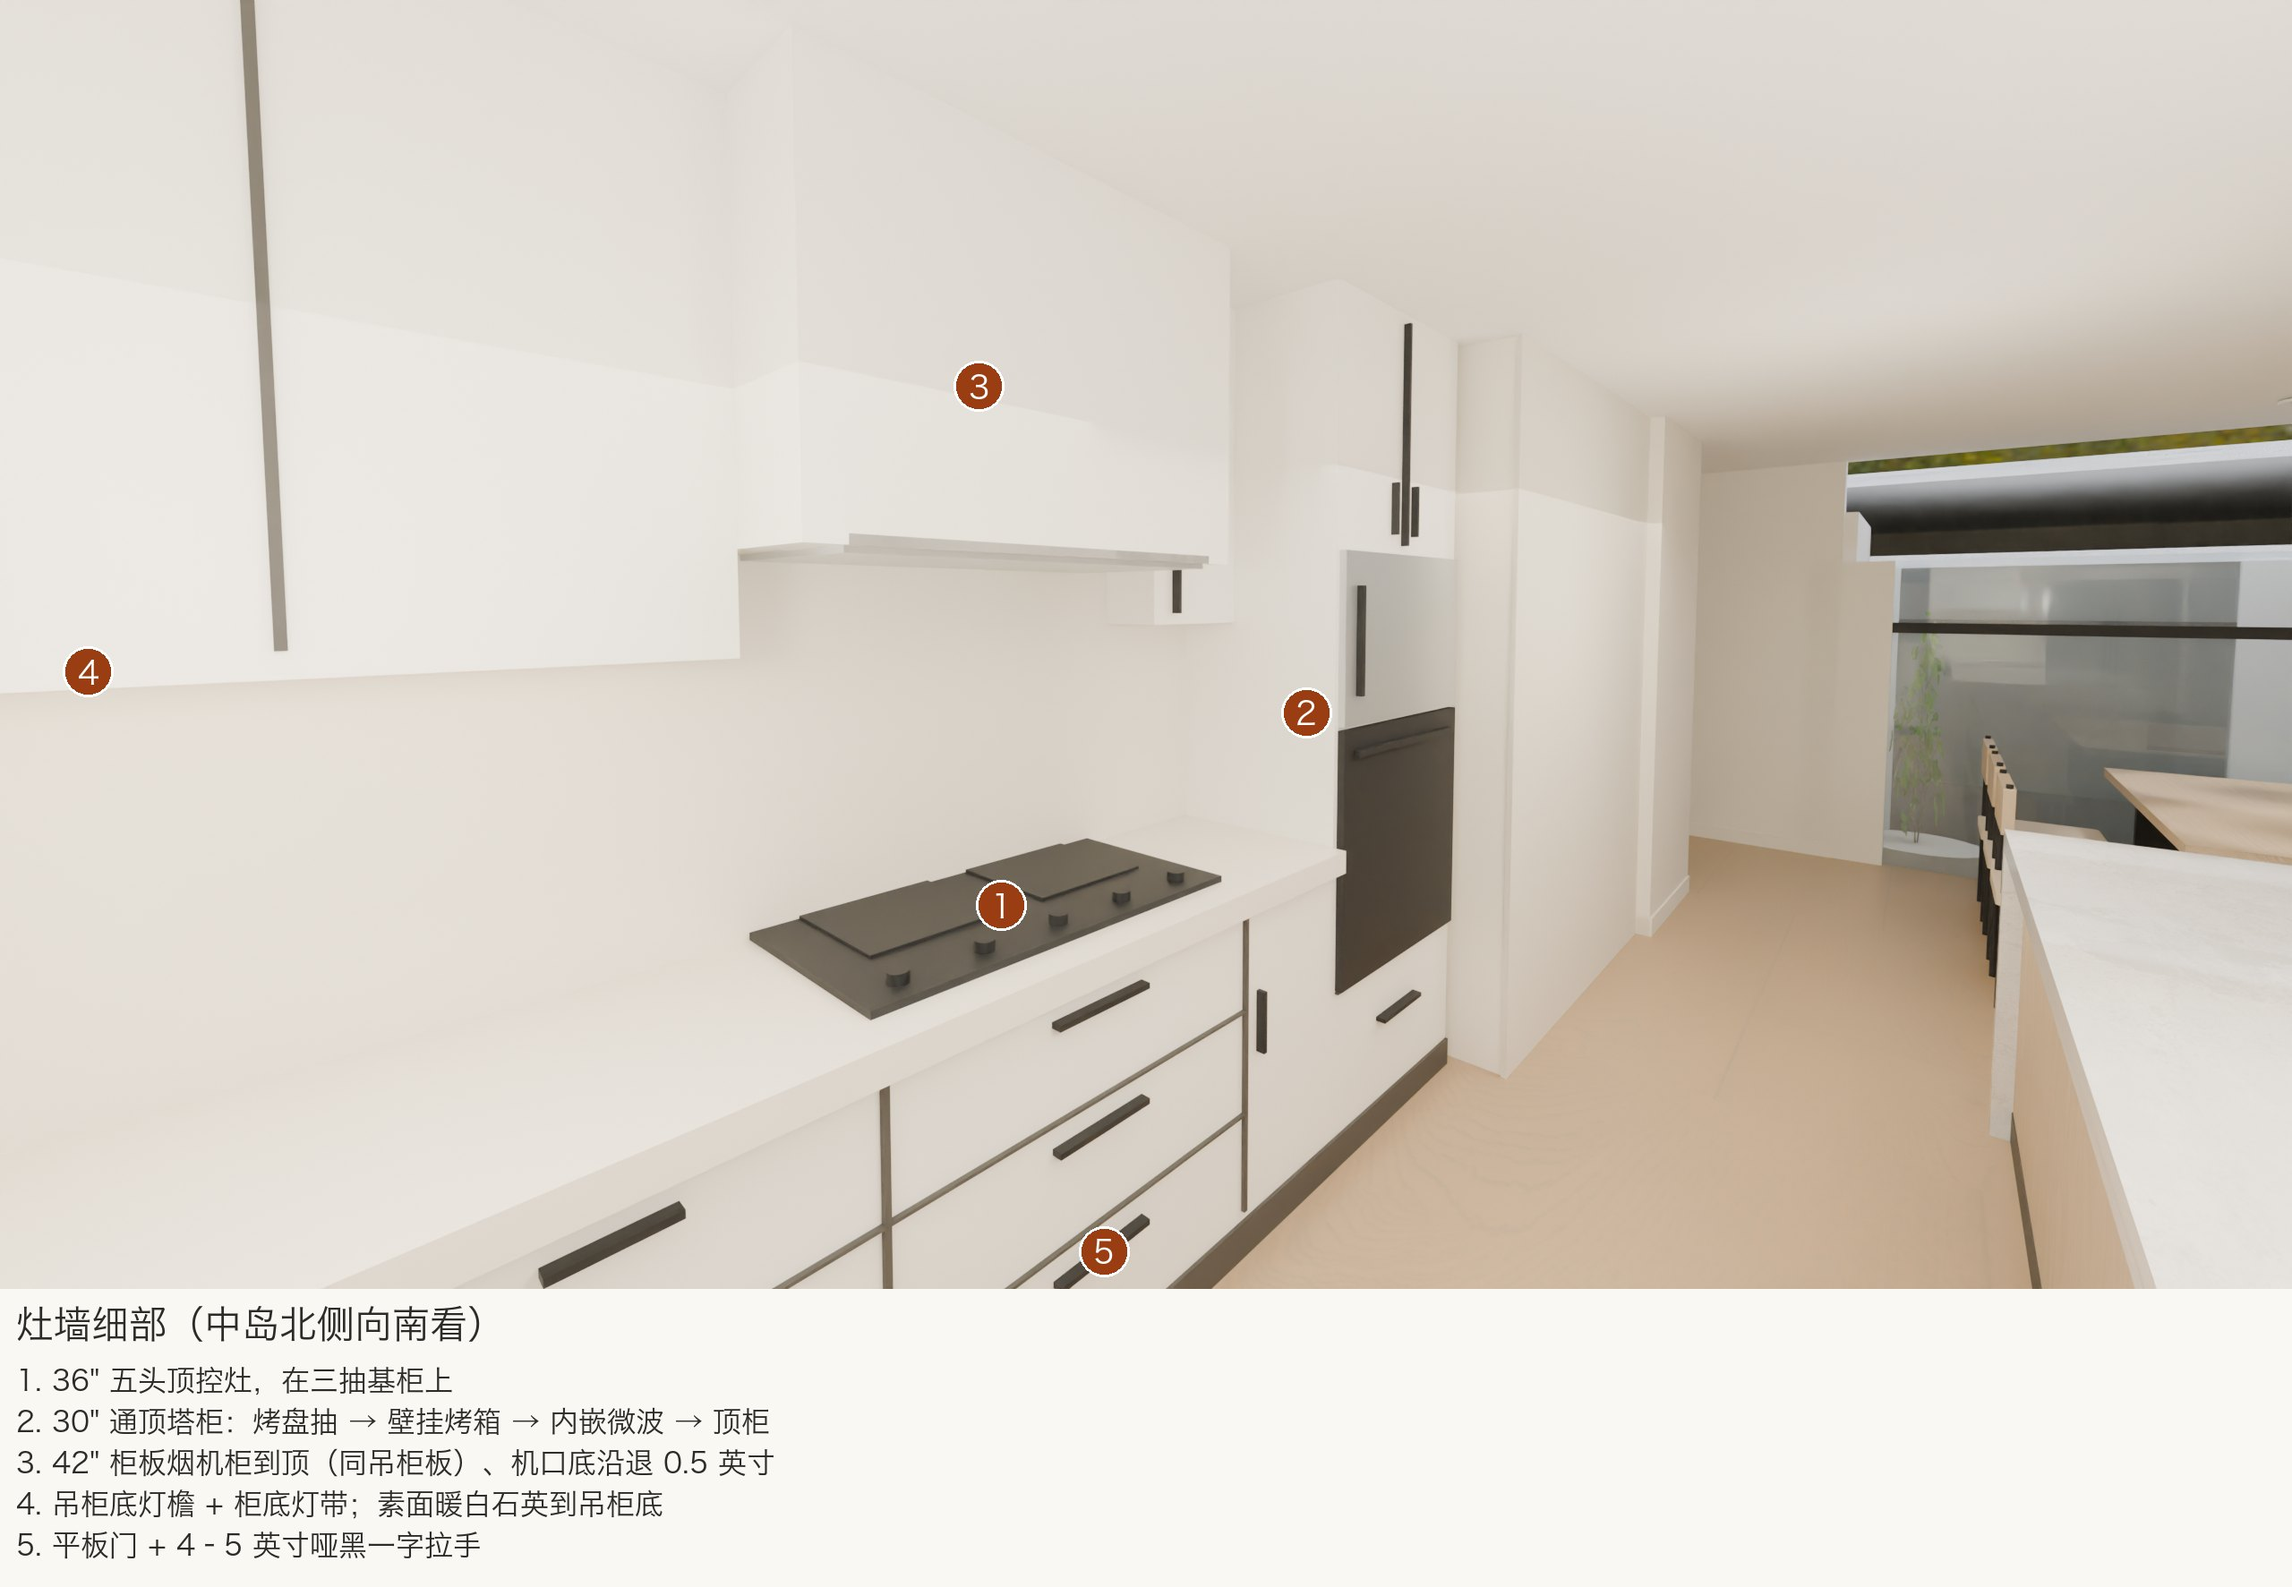
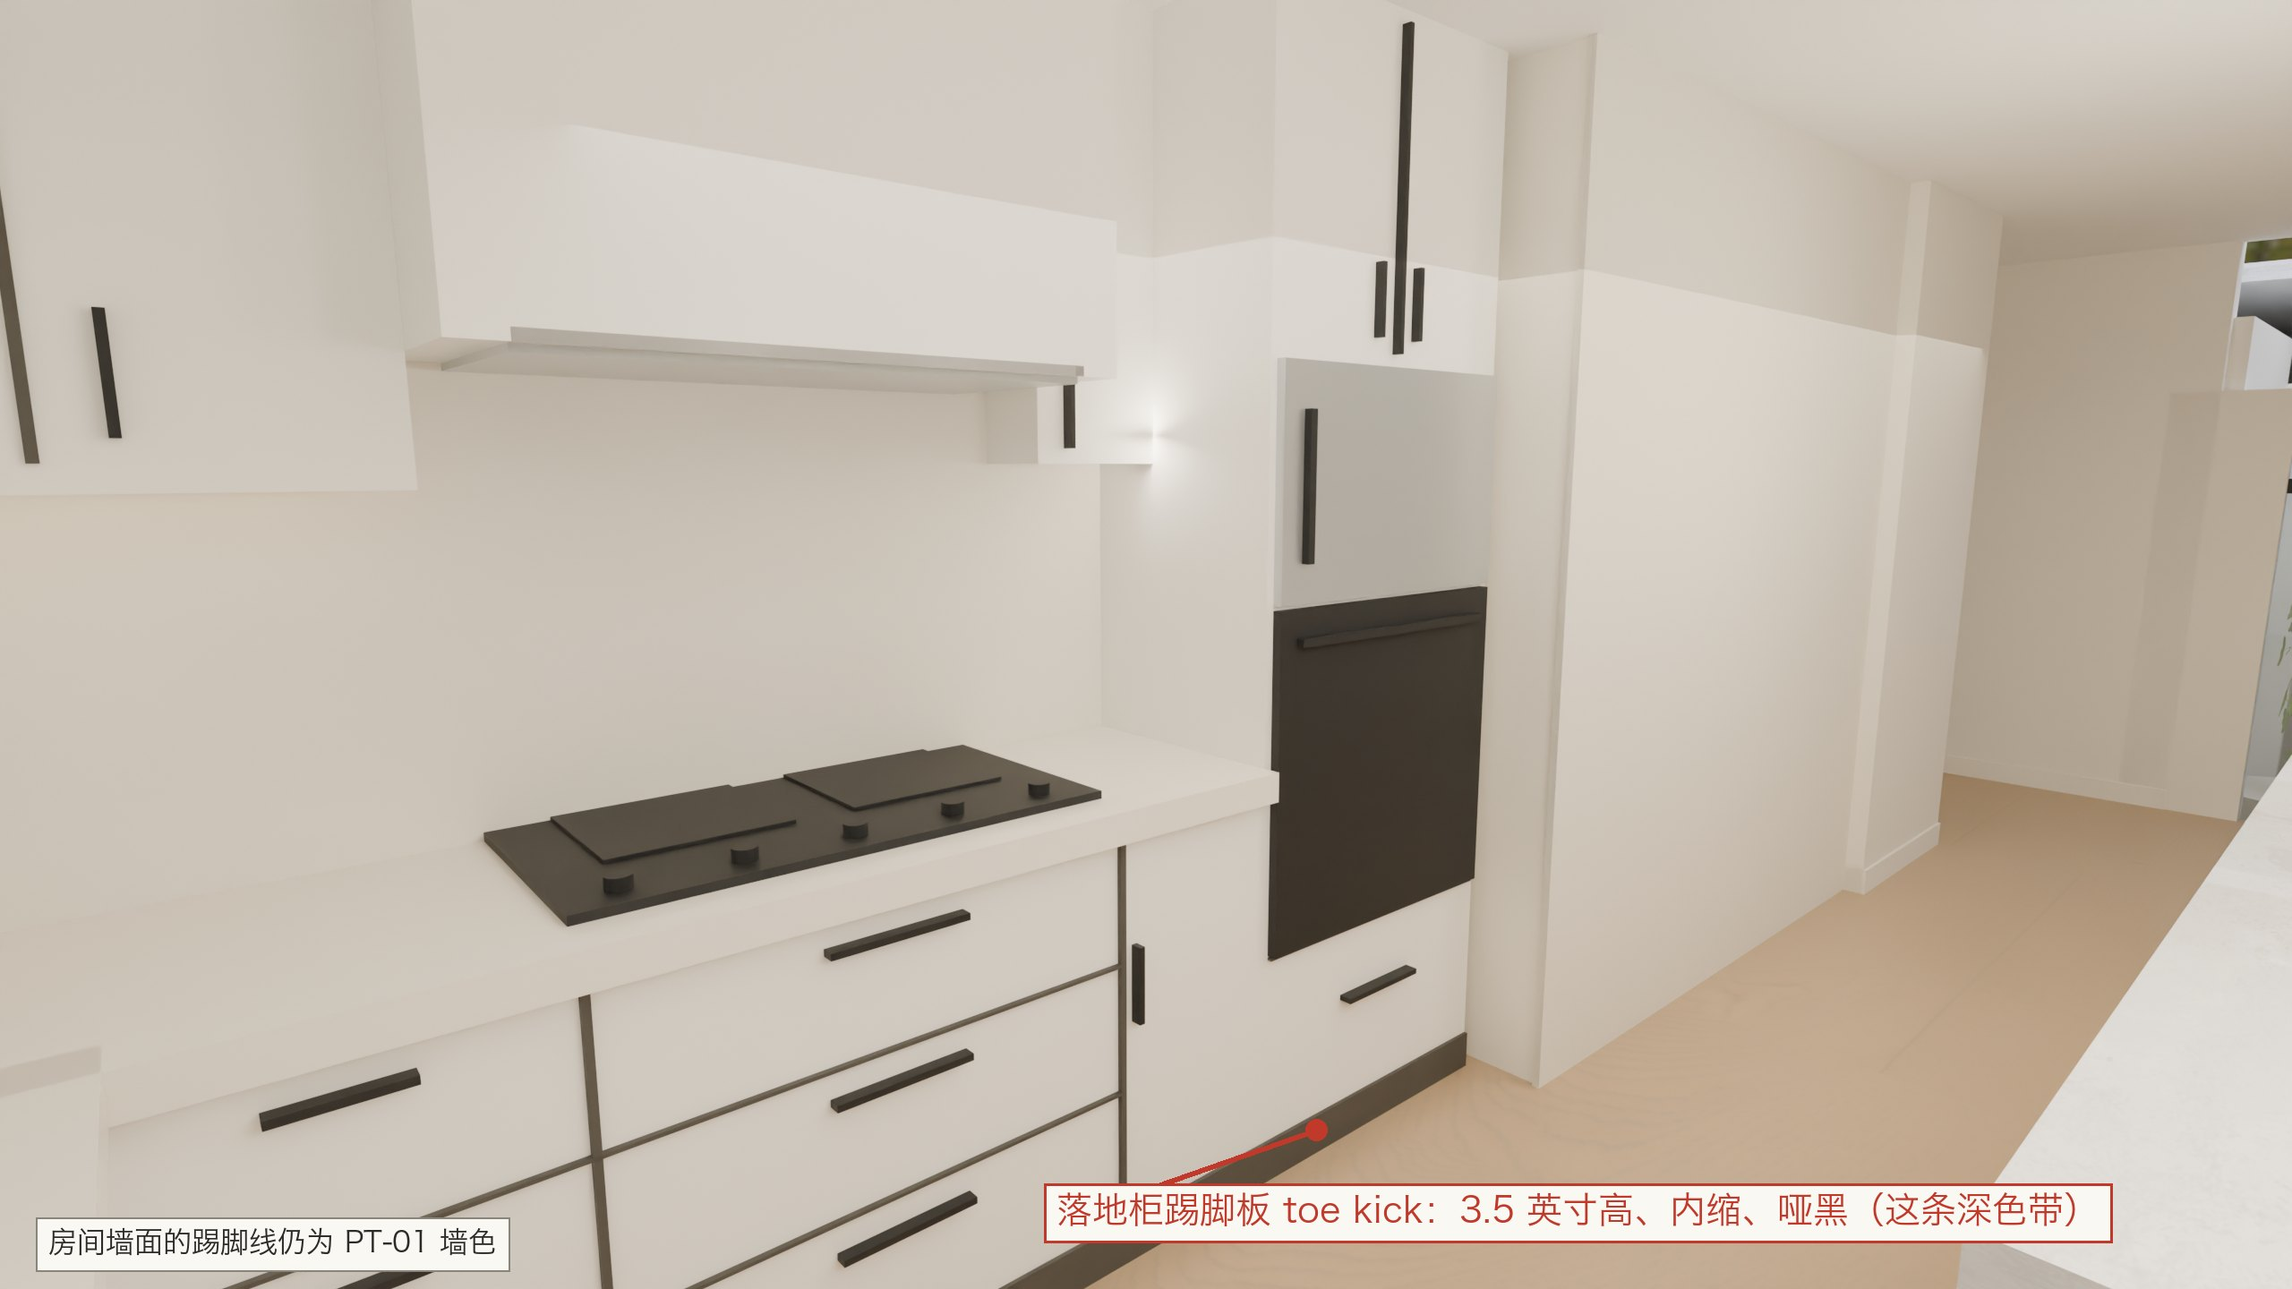
Crew UAT: stove wall 128.5in layout E

diff --git a/UAT.html b/UAT.html
@@ -87,12 +87,12 @@ li.own,span.own{color:#6b5d3a}li.own::marker{color:#c9b48a}
 <h3 id="s6">6 · 厨房</h3>
 <div class="fig plan"><figure><img src="uat/zone-7.jpg" alt=""><figcaption><b>厨房 · 平面</b> — 本区位置与各房间名称；细节看效果图。</figcaption></figure></div>
 
-<div class="fig "><figure><img src="uat/K-stove-wall-anno.jpg" alt=""><figcaption><b>灶墙细部（中岛北侧向南看）</b> — 右：30" 通顶塔柜（15" 烤盘抽 → 壁挂烤箱 → 内嵌微波 + 原厂框 → 顶柜两门，门面齐基柜）；16" 抽拉柜；36" 五头顶控灶在三抽基柜上；42" 烟机柜同柜板到顶、机口底沿退 ½"；左：吊柜连到烟机柜 + 灯檐；素面暖白石英到吊柜底；平板门 + 哑黑一字拉手 + 哑黑内收踢脚；白橡地板。</figcaption></figure><figure><img src="uat/D-garden-window.jpg" alt=""><figcaption><b>水槽花园窗石龛（中岛东端向东看）</b> — 东墙石英台面到吊柜底 60"；4" 石英立面 + 12" 石英窗台一体；窗洞两侧 2cm 石英返贴到窗头；窗头以上留白；黑框。</figcaption></figure></div>
+<div class="fig "><figure><img src="uat/K-stove-wall-anno.jpg" alt=""><figcaption><b>灶墙细部（中岛北侧向南看）</b> — 右：30" 通顶塔柜（15" 烤盘抽 → 壁挂烤箱 → 内嵌微波 + 原厂框 → 顶柜两门，门面齐基柜）；15" 抽拉柜；36" 五头顶控灶在三抽基柜上（灶心与烟机柜同轴）；42" 烟机柜同柜板到顶、机口底沿退 ½"；左：30½" 吊柜连到烟机柜 + 灯檐，下方 45" 盲角基柜；素面暖白石英到吊柜底；平板门 + 哑黑一字拉手 + 哑黑内收踢脚；白橡地板。</figcaption></figure><figure><img src="uat/D-garden-window.jpg" alt=""><figcaption><b>水槽花园窗石龛（中岛东端向东看）</b> — 东墙石英台面到吊柜底 60"；4" 石英立面 + 12" 石英窗台一体；窗洞两侧 2cm 石英返贴到窗头；窗头以上留白；黑框。</figcaption></figure></div>
 
 <div class="fig "><figure><img src="uat/K-fridge-anno.jpg" alt=""><figcaption><b>冰箱围合（空房）</b> — 冰箱在东墙北端；北窗全窗可见；窗与冰箱之间 30" 留白墙；左：北墙 66" 哑黑挂条 + 42" 白橡落物浮凳（可翻叠）。</figcaption></figure><figure><img src="uat/C-kitchen-labeled.jpg" alt=""><figcaption><b>厨房配色</b> — 中岛白橡；周边暖白；吧凳哑黑架 + 白橡座（渲染全黑为代用）；西端 30" 塔柜 = 烤箱 + 微波 + 顶柜（渲染吊柜顶亮带为旧示意，吊柜顶无灯）。</figcaption></figure></div>
 
 
-<h4>本区要点</h4><ul class="bul"><li><b>中岛</b>：Calacatta 3cm 台面 96×42"，柜体 96×27" Natural Oak TFL 平板、板纹竖向；两端瀑布石板一直落到地；南面（朝灶墙那侧）台面与柜体齐平，是做饭面，全抽屉；北面台面多伸出 15"，底下是空的，放 4 只吧凳；悬挑支撑由石材加工商出具，外部零可见。</li><li><b>中岛吊灯 ×3</b>：乳白罩吊线款，居中、间距 32"，罩底在台面上 32"。</li><li><b>灶墙自西向东</b>：30" 通顶塔柜（烤盘抽 → 壁挂烤箱 → 内嵌微波 → 顶柜）→ 16" 抽拉柜（上方 16" 吊柜底 60" 到顶）→ 36" 燃气灶 → 42" 柜板烟机柜（Pigeon White 同柜板，底 66" 到顶，机口退 ½"）→ 52" 吊柜到顶：台面以上一条连续柜线到顶，无石英缝。</li><li><b>灯带</b>：所有吊柜底灯带藏灯檐后。</li><li><b>周边柜</b>：Pigeon White 超哑光 TFL 平板 + 哑黑一字拉手；台面与通高背板素面暖白石英。</li><li><b>踢脚板</b>：厨房所有落地柜（灶墙基柜、塔柜、东墙基柜、水槽柜、中岛柜）底部踢脚板 3½" 高、内缩约 3"、哑黑；吊柜与转角吊柜不落地，无踢脚板。</li><li><b>花园窗</b>：屋外部分——窗框与窗箱底板（凸出屋外的底面）喷哑黑；室内部分——窗台铺 3cm 石英（12" 窗台 + 4" 立面一体），两侧 2cm 石英返贴到窗头，室内看不到金属。</li><li><b>北墙</b>：42" 白橡落物浮凳（可翻叠）+ 66" 哑黑挂条 3 钩。</li></ul>
+<h4>本区要点</h4><ul class="bul"><li><b>中岛</b>：Calacatta 3cm 台面 96×42"，柜体 96×27" Natural Oak TFL 平板、板纹竖向；两端瀑布石板一直落到地；南面（朝灶墙那侧）台面与柜体齐平，是做饭面，全抽屉；北面台面多伸出 15"，底下是空的，放 4 只吧凳；悬挑支撑由石材加工商出具，外部零可见。</li><li><b>中岛吊灯 ×3</b>：乳白罩吊线款，居中、间距 32"，罩底在台面上 32"。</li><li><b>灶墙自西向东</b>（两端净长 128.5"，2026-10-17 实测；西端 15" 框架墙返保留）：2" 刮边 → 30" 通顶塔柜（烤盘抽 → 壁挂烤箱 → 内嵌微波 → 顶柜）→ 15" 抽拉柜（上方 12" 吊柜底 60" 到顶）→ 36" 燃气灶（灶心距西端 65"）→ 42" 柜板烟机柜（Pigeon White 同柜板，底 66" 到顶，机口退 ½"，与灶同轴）→ 45" 盲角基柜（门段 21" + 盲段 24" 接东墙转角；柜商无 45" 则 42" + 3" 填板）上方 30½" 吊柜 + 转角吊柜到顶 → ½" 填板到东墙：台面以上一条连续柜线到顶，无石英缝。</li><li><b>灯带</b>：所有吊柜底灯带藏灯檐后。</li><li><b>周边柜</b>：Pigeon White 超哑光 TFL 平板 + 哑黑一字拉手；台面与通高背板素面暖白石英。</li><li><b>踢脚板</b>：厨房所有落地柜（灶墙基柜、塔柜、东墙基柜、水槽柜、中岛柜）底部踢脚板 3½" 高、内缩约 3"、哑黑；吊柜与转角吊柜不落地，无踢脚板。</li><li><b>花园窗</b>：屋外部分——窗框与窗箱底板（凸出屋外的底面）喷哑黑；室内部分——窗台铺 3cm 石英（12" 窗台 + 4" 立面一体），两侧 2cm 石英返贴到窗头，室内看不到金属。</li><li><b>北墙</b>：42" 白橡落物浮凳（可翻叠）+ 66" 哑黑挂条 3 钩。</li></ul>
 
 
 

diff --git a/index.html b/index.html
@@ -87,12 +87,12 @@ li.own,span.own{color:#6b5d3a}li.own::marker{color:#c9b48a}
 <h3 id="s6">6 · 厨房</h3>
 <div class="fig plan"><figure><img src="uat/zone-7.jpg" alt=""><figcaption><b>厨房 · 平面</b> — 本区位置与各房间名称；细节看效果图。</figcaption></figure></div>
 
-<div class="fig "><figure><img src="uat/K-stove-wall-anno.jpg" alt=""><figcaption><b>灶墙细部（中岛北侧向南看）</b> — 右：30" 通顶塔柜（15" 烤盘抽 → 壁挂烤箱 → 内嵌微波 + 原厂框 → 顶柜两门，门面齐基柜）；16" 抽拉柜；36" 五头顶控灶在三抽基柜上；42" 烟机柜同柜板到顶、机口底沿退 ½"；左：吊柜连到烟机柜 + 灯檐；素面暖白石英到吊柜底；平板门 + 哑黑一字拉手 + 哑黑内收踢脚；白橡地板。</figcaption></figure><figure><img src="uat/D-garden-window.jpg" alt=""><figcaption><b>水槽花园窗石龛（中岛东端向东看）</b> — 东墙石英台面到吊柜底 60"；4" 石英立面 + 12" 石英窗台一体；窗洞两侧 2cm 石英返贴到窗头；窗头以上留白；黑框。</figcaption></figure></div>
+<div class="fig "><figure><img src="uat/K-stove-wall-anno.jpg" alt=""><figcaption><b>灶墙细部（中岛北侧向南看）</b> — 右：30" 通顶塔柜（15" 烤盘抽 → 壁挂烤箱 → 内嵌微波 + 原厂框 → 顶柜两门，门面齐基柜）；15" 抽拉柜；36" 五头顶控灶在三抽基柜上（灶心与烟机柜同轴）；42" 烟机柜同柜板到顶、机口底沿退 ½"；左：30½" 吊柜连到烟机柜 + 灯檐，下方 45" 盲角基柜；素面暖白石英到吊柜底；平板门 + 哑黑一字拉手 + 哑黑内收踢脚；白橡地板。</figcaption></figure><figure><img src="uat/D-garden-window.jpg" alt=""><figcaption><b>水槽花园窗石龛（中岛东端向东看）</b> — 东墙石英台面到吊柜底 60"；4" 石英立面 + 12" 石英窗台一体；窗洞两侧 2cm 石英返贴到窗头；窗头以上留白；黑框。</figcaption></figure></div>
 
 <div class="fig "><figure><img src="uat/K-fridge-anno.jpg" alt=""><figcaption><b>冰箱围合（空房）</b> — 冰箱在东墙北端；北窗全窗可见；窗与冰箱之间 30" 留白墙；左：北墙 66" 哑黑挂条 + 42" 白橡落物浮凳（可翻叠）。</figcaption></figure><figure><img src="uat/C-kitchen-labeled.jpg" alt=""><figcaption><b>厨房配色</b> — 中岛白橡；周边暖白；吧凳哑黑架 + 白橡座（渲染全黑为代用）；西端 30" 塔柜 = 烤箱 + 微波 + 顶柜（渲染吊柜顶亮带为旧示意，吊柜顶无灯）。</figcaption></figure></div>
 
 
-<h4>本区要点</h4><ul class="bul"><li><b>中岛</b>：Calacatta 3cm 台面 96×42"，柜体 96×27" Natural Oak TFL 平板、板纹竖向；两端瀑布石板一直落到地；南面（朝灶墙那侧）台面与柜体齐平，是做饭面，全抽屉；北面台面多伸出 15"，底下是空的，放 4 只吧凳；悬挑支撑由石材加工商出具，外部零可见。</li><li><b>中岛吊灯 ×3</b>：乳白罩吊线款，居中、间距 32"，罩底在台面上 32"。</li><li><b>灶墙自西向东</b>：30" 通顶塔柜（烤盘抽 → 壁挂烤箱 → 内嵌微波 → 顶柜）→ 16" 抽拉柜（上方 16" 吊柜底 60" 到顶）→ 36" 燃气灶 → 42" 柜板烟机柜（Pigeon White 同柜板，底 66" 到顶，机口退 ½"）→ 52" 吊柜到顶：台面以上一条连续柜线到顶，无石英缝。</li><li><b>灯带</b>：所有吊柜底灯带藏灯檐后。</li><li><b>周边柜</b>：Pigeon White 超哑光 TFL 平板 + 哑黑一字拉手；台面与通高背板素面暖白石英。</li><li><b>踢脚板</b>：厨房所有落地柜（灶墙基柜、塔柜、东墙基柜、水槽柜、中岛柜）底部踢脚板 3½" 高、内缩约 3"、哑黑；吊柜与转角吊柜不落地，无踢脚板。</li><li><b>花园窗</b>：屋外部分——窗框与窗箱底板（凸出屋外的底面）喷哑黑；室内部分——窗台铺 3cm 石英（12" 窗台 + 4" 立面一体），两侧 2cm 石英返贴到窗头，室内看不到金属。</li><li><b>北墙</b>：42" 白橡落物浮凳（可翻叠）+ 66" 哑黑挂条 3 钩。</li></ul>
+<h4>本区要点</h4><ul class="bul"><li><b>中岛</b>：Calacatta 3cm 台面 96×42"，柜体 96×27" Natural Oak TFL 平板、板纹竖向；两端瀑布石板一直落到地；南面（朝灶墙那侧）台面与柜体齐平，是做饭面，全抽屉；北面台面多伸出 15"，底下是空的，放 4 只吧凳；悬挑支撑由石材加工商出具，外部零可见。</li><li><b>中岛吊灯 ×3</b>：乳白罩吊线款，居中、间距 32"，罩底在台面上 32"。</li><li><b>灶墙自西向东</b>（两端净长 128.5"，2026-10-17 实测；西端 15" 框架墙返保留）：2" 刮边 → 30" 通顶塔柜（烤盘抽 → 壁挂烤箱 → 内嵌微波 → 顶柜）→ 15" 抽拉柜（上方 12" 吊柜底 60" 到顶）→ 36" 燃气灶（灶心距西端 65"）→ 42" 柜板烟机柜（Pigeon White 同柜板，底 66" 到顶，机口退 ½"，与灶同轴）→ 45" 盲角基柜（门段 21" + 盲段 24" 接东墙转角；柜商无 45" 则 42" + 3" 填板）上方 30½" 吊柜 + 转角吊柜到顶 → ½" 填板到东墙：台面以上一条连续柜线到顶，无石英缝。</li><li><b>灯带</b>：所有吊柜底灯带藏灯檐后。</li><li><b>周边柜</b>：Pigeon White 超哑光 TFL 平板 + 哑黑一字拉手；台面与通高背板素面暖白石英。</li><li><b>踢脚板</b>：厨房所有落地柜（灶墙基柜、塔柜、东墙基柜、水槽柜、中岛柜）底部踢脚板 3½" 高、内缩约 3"、哑黑；吊柜与转角吊柜不落地，无踢脚板。</li><li><b>花园窗</b>：屋外部分——窗框与窗箱底板（凸出屋外的底面）喷哑黑；室内部分——窗台铺 3cm 石英（12" 窗台 + 4" 立面一体），两侧 2cm 石英返贴到窗头，室内看不到金属。</li><li><b>北墙</b>：42" 白橡落物浮凳（可翻叠）+ 66" 哑黑挂条 3 钩。</li></ul>
 
 
 
